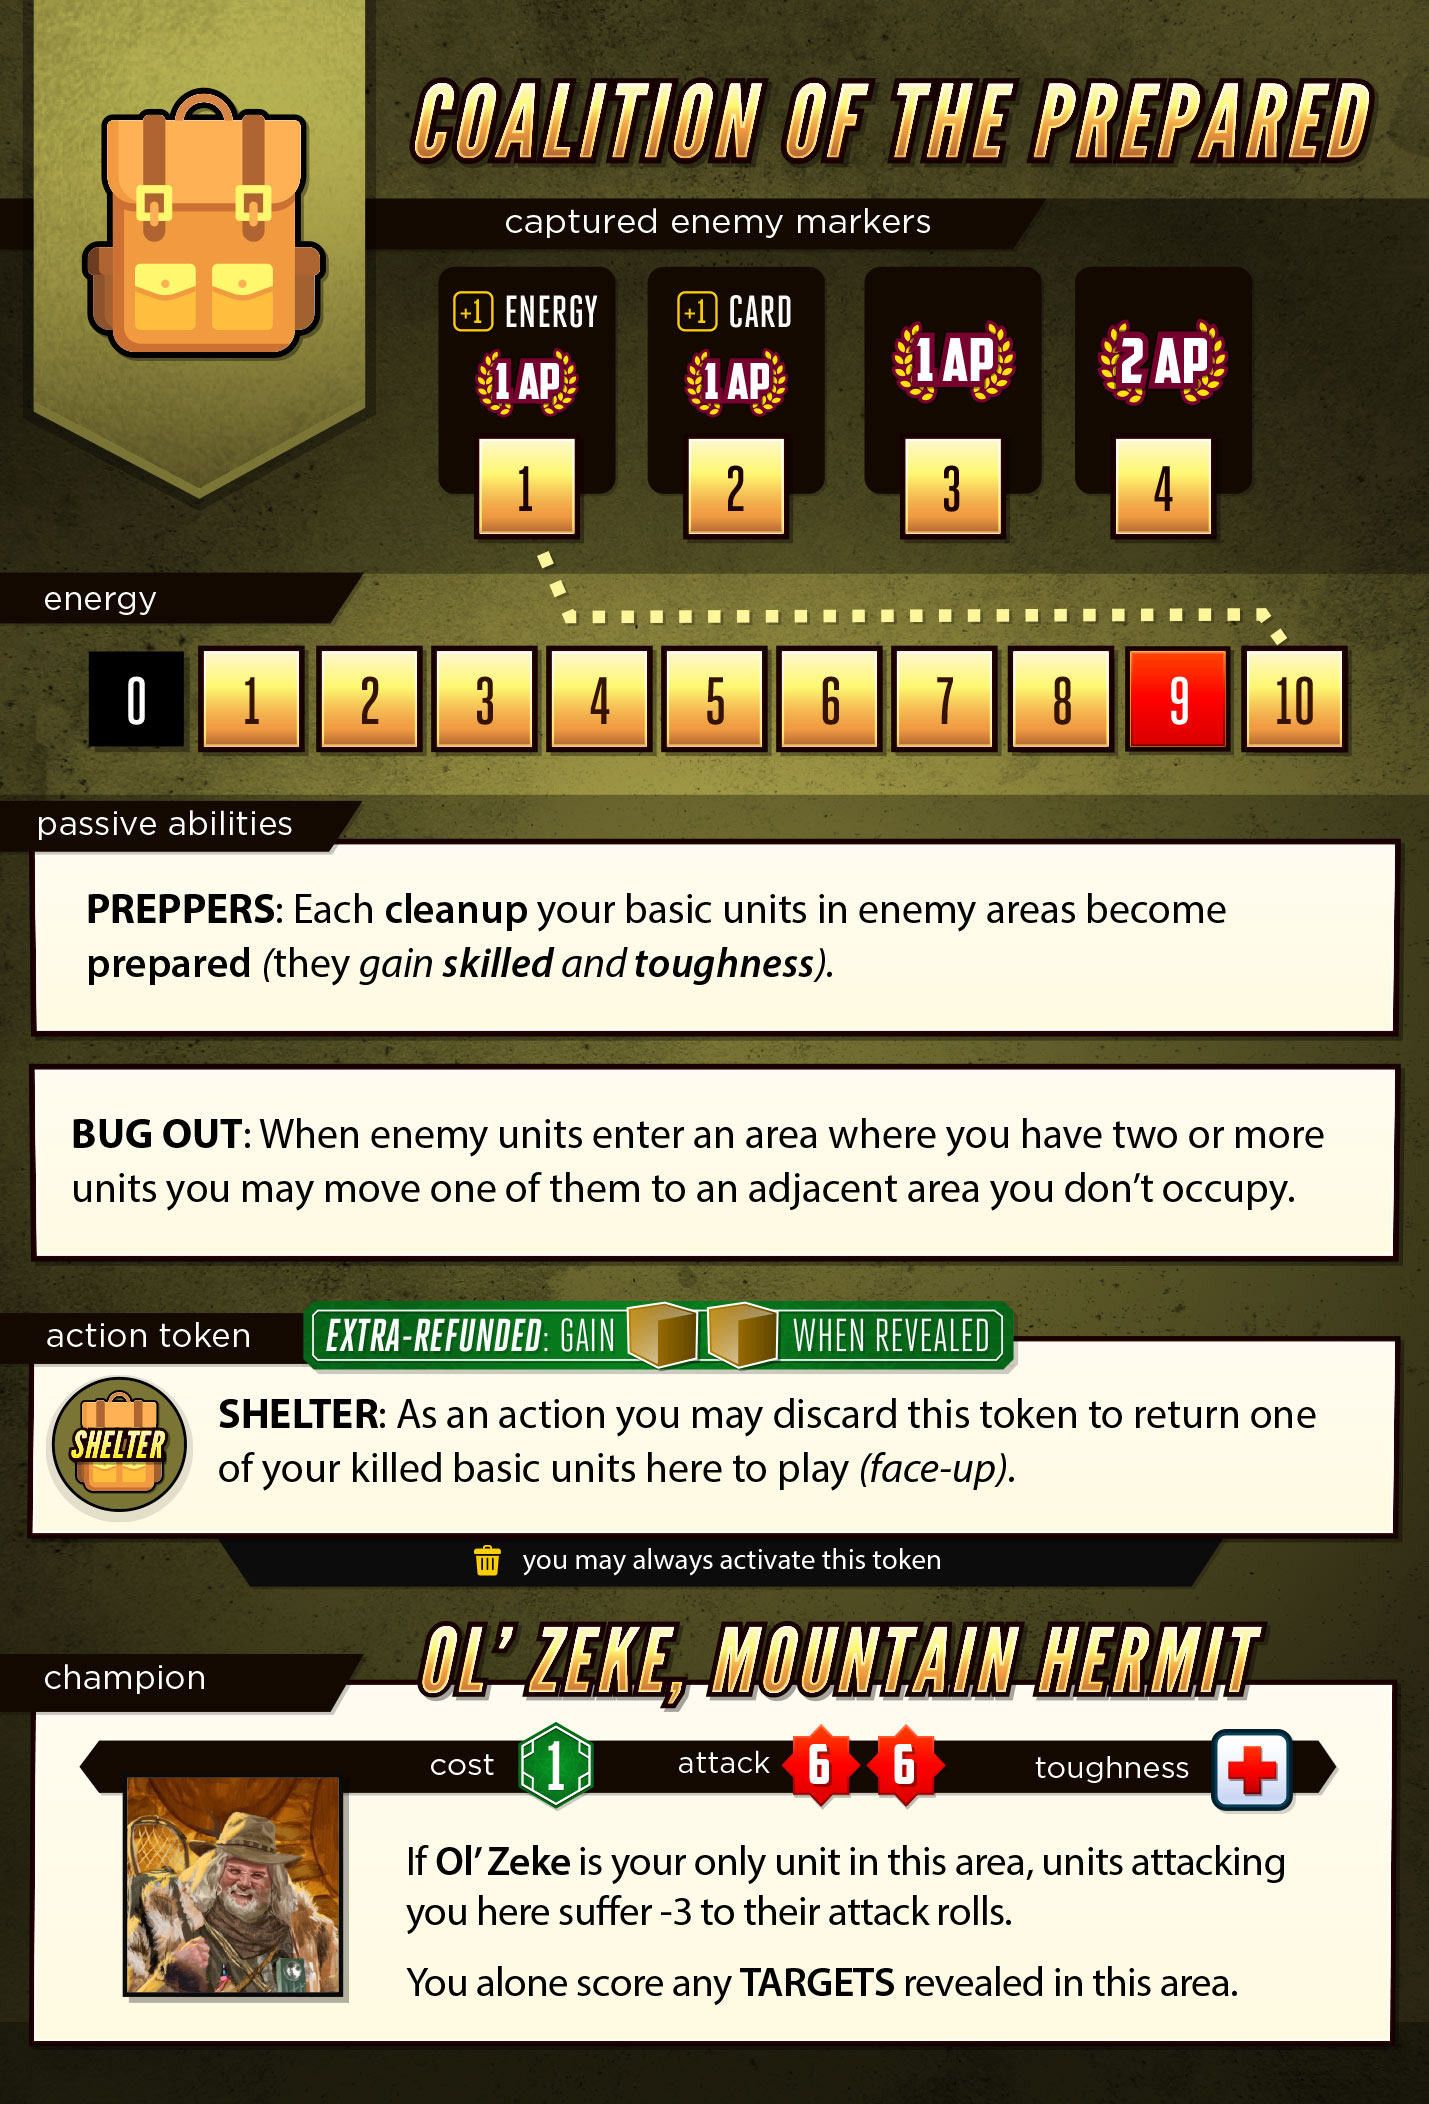
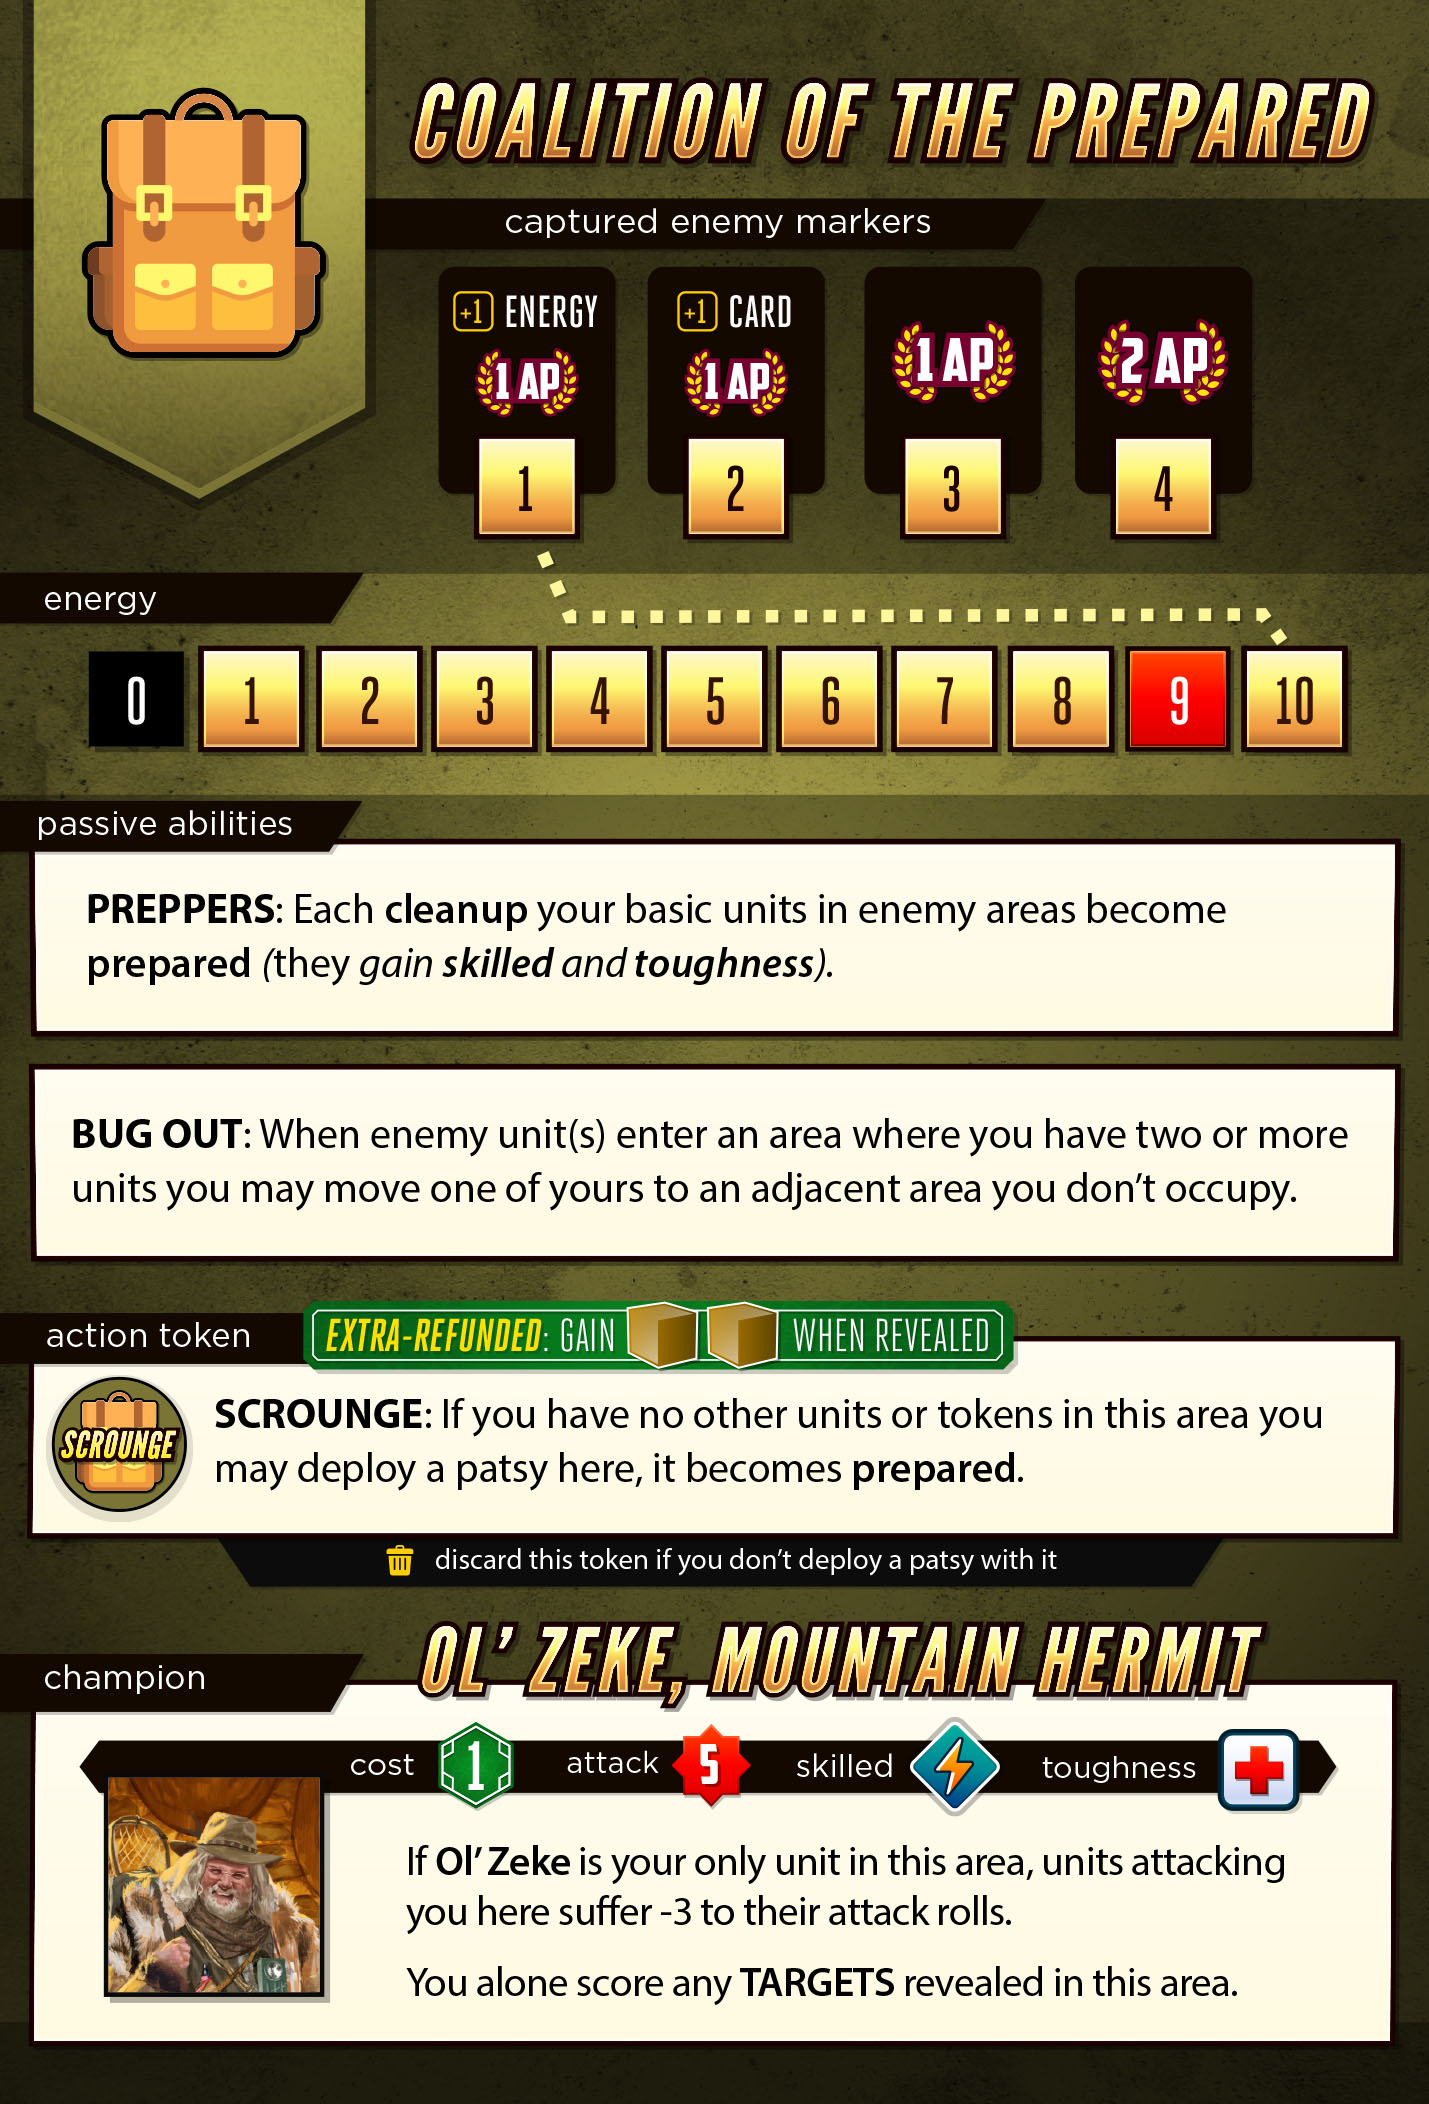
SURVIVORS: Rework scrounge token, and other minor tweaks

diff --git a/server/classes/factions/Survivalists.js b/server/classes/factions/Survivalists.js
@@ -39,6 +39,7 @@ class Survivalists extends Faction {
         };
         */
 
+        /*
         this.tokens['shelter'] = {
             count: 1,
             data: {
@@ -49,6 +50,19 @@ class Survivalists extends Faction {
                 description: "Discard this token as an action to return one of your killed basic units here to play",
                 req : "Passive token: this token may always be activated",
                 collectDiscardedCards: true,
+            }
+        };
+        */
+
+        this.tokens['scrounge'] = {
+            count: 1,
+            data: {
+                influence: 1,
+                type: 'scrounge',
+                cost: 0,
+                resource: 2,
+                description: "Extra Refunded (gain xRxxRx when revealed), if you have no other tokens or units here you may deploy a patsy to this area, it becomes prepared",
+                req : "Discard this token if you do not deploy a patsy when activating it",
             }
         };
 
@@ -63,17 +77,14 @@ class Survivalists extends Faction {
         this.units['goon'].data.ready = false;
         this.units['goon'].data.onDamaged = 'checkPrepperToughness';
 
-        this.units['patsy'].count = 6;
+        this.units['patsy'].count = 8;
         this.units['patsy'].data.prepared = false;
         this.units['patsy'].data.attack = [9];
         this.units['patsy'].data.skilled = false;
         this.units['patsy'].data.ready = false;
         this.units['patsy'].data.onDamaged = 'checkPrepperToughness';
 
-        this.units['talent'].count = 4;
-        this.units['talent'].data.prepared = false;
-        this.units['talent'].data.baseSkilled = true;
-        this.units['talent'].data.onDamaged = 'checkPrepperToughness';
+        delete this.units['talent'];
 
         this.units['champion'] = {
             count: 1,
@@ -82,7 +93,7 @@ class Survivalists extends Faction {
                 type: 'champion',
                 basic: false,
                 influence: 0,
-                attack: [6,6],
+                attack: [5],
                 cost: 1,
                 toughness: true,
                 flipped: false,
@@ -90,6 +101,8 @@ class Survivalists extends Faction {
                 selected: false,
                 hitsAssigned: 0,
                 soloDefenseBonus: 3,
+                skilled: true,
+                ready: false,
             }
         };
     }
@@ -104,22 +117,30 @@ class Survivalists extends Faction {
      * @param token
      * @param area
      * @returns {boolean}
-
-    canActivateScrounge( token, area ) {
-        return true;
-    }
     */
+    canActivateScrounge( token, area ) {
+        return !this.hasUnitsInArea( area ) && !this.tokensInArea().length;
+    }
 
     /**
      * Resolve our scrounge token
      *
      * @param args
      * @returns {Promise<void>}
-
+    */
      async activateScroungeToken( args ) {
+        let options = {
+            deployLimit: 1,
+            readyUnits: true,
+            unitType: 'patsy',
+            area: args.area,
+        };
+
+        // deploy a patsy, and ready it
+        await this.deploy( options ).catch( error => console.error( error ) );
+
         this.game().advancePlayer();
     }
-     */
 
     /**
      * Can we activate our shelter token?
@@ -127,27 +148,28 @@ class Survivalists extends Faction {
      * @param token
      * @param area
      * @returns {boolean}
-    */
+
      canActivateShelter( token, area ) {
         return true;
     }
+    */
 
     /**
      * Resolve our shelter token
      *
      * @param args
      * @returns {Promise<void>}
-    */
+
      async activateShelterToken( args ) {
         this.game().advancePlayer();
     }
-
+    */
     /**
      * Take a shelter action by removing a shelter token
      *
      * @param player
      * @param areaName
-     */
+
     async takeShelterAction( player, areaName ){
         let area = this.game().areas[areaName];
 
@@ -168,7 +190,13 @@ class Survivalists extends Faction {
         // advance the game
         this.game().advancePlayer();
     }
+     */
 
+    /**
+     *
+     * @param event
+     * @returns {string}
+     */
     checkPrepperToughness( event ){
         // event.hits is the number of hits assigned to this unit
         if( !event.unit.flipped || event.hits > 1 ){

diff --git a/server/classes/factions/mixins/valueMethods.js b/server/classes/factions/mixins/valueMethods.js
@@ -737,6 +737,22 @@ let mixin = {
 
 
     /**
+     * Does this faction have units in the given area?
+     *
+     * @param area
+     * @param options
+     * @returns {boolean}
+     */
+    tokensInArea( area, options = {} ) {
+        if(area.name) area = area.name;
+        return this.data.tokens.filter(token => {
+            return token.location === area
+                && (!options.revealed || token.revealed)
+                && (!options.unrevealed || !token.revealed);
+        });
+    },
+
+    /**
      * Return's our player name
      *
      * @returns {string}

diff --git a/server/classes/factions/plans/survivalistsPlans.js b/server/classes/factions/plans/survivalistsPlans.js
@@ -145,7 +145,7 @@ let obj = [
             },
             {
                 requirements : [
-                    { test : 'skilledAtTarget', args : [3] },
+                    { test : 'skilledAtTarget', args : [2] },
                 ],
                 value : 1
             },
